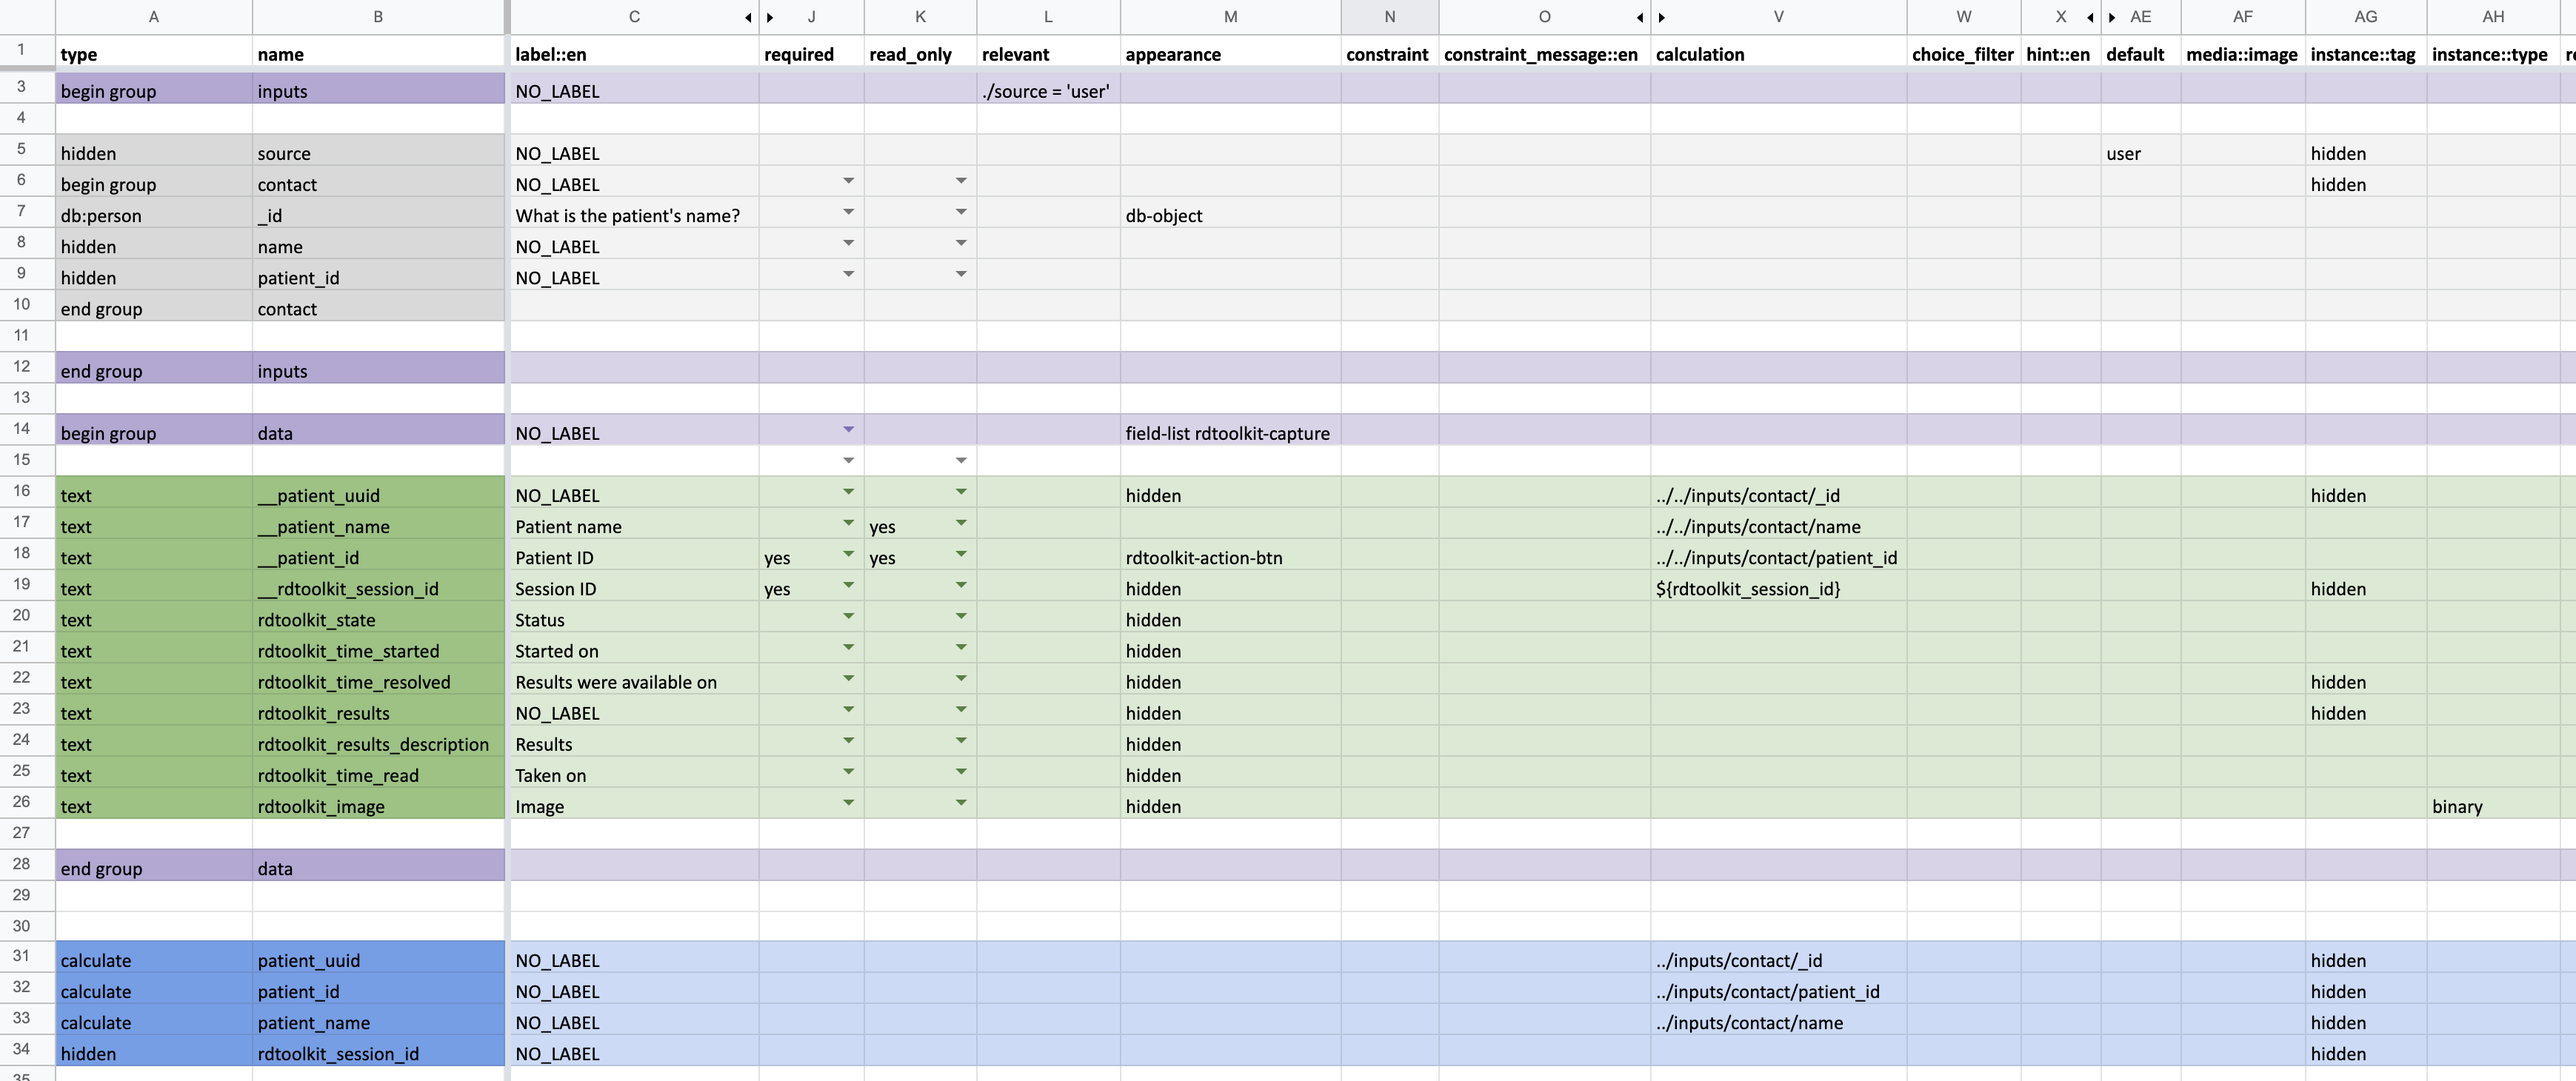
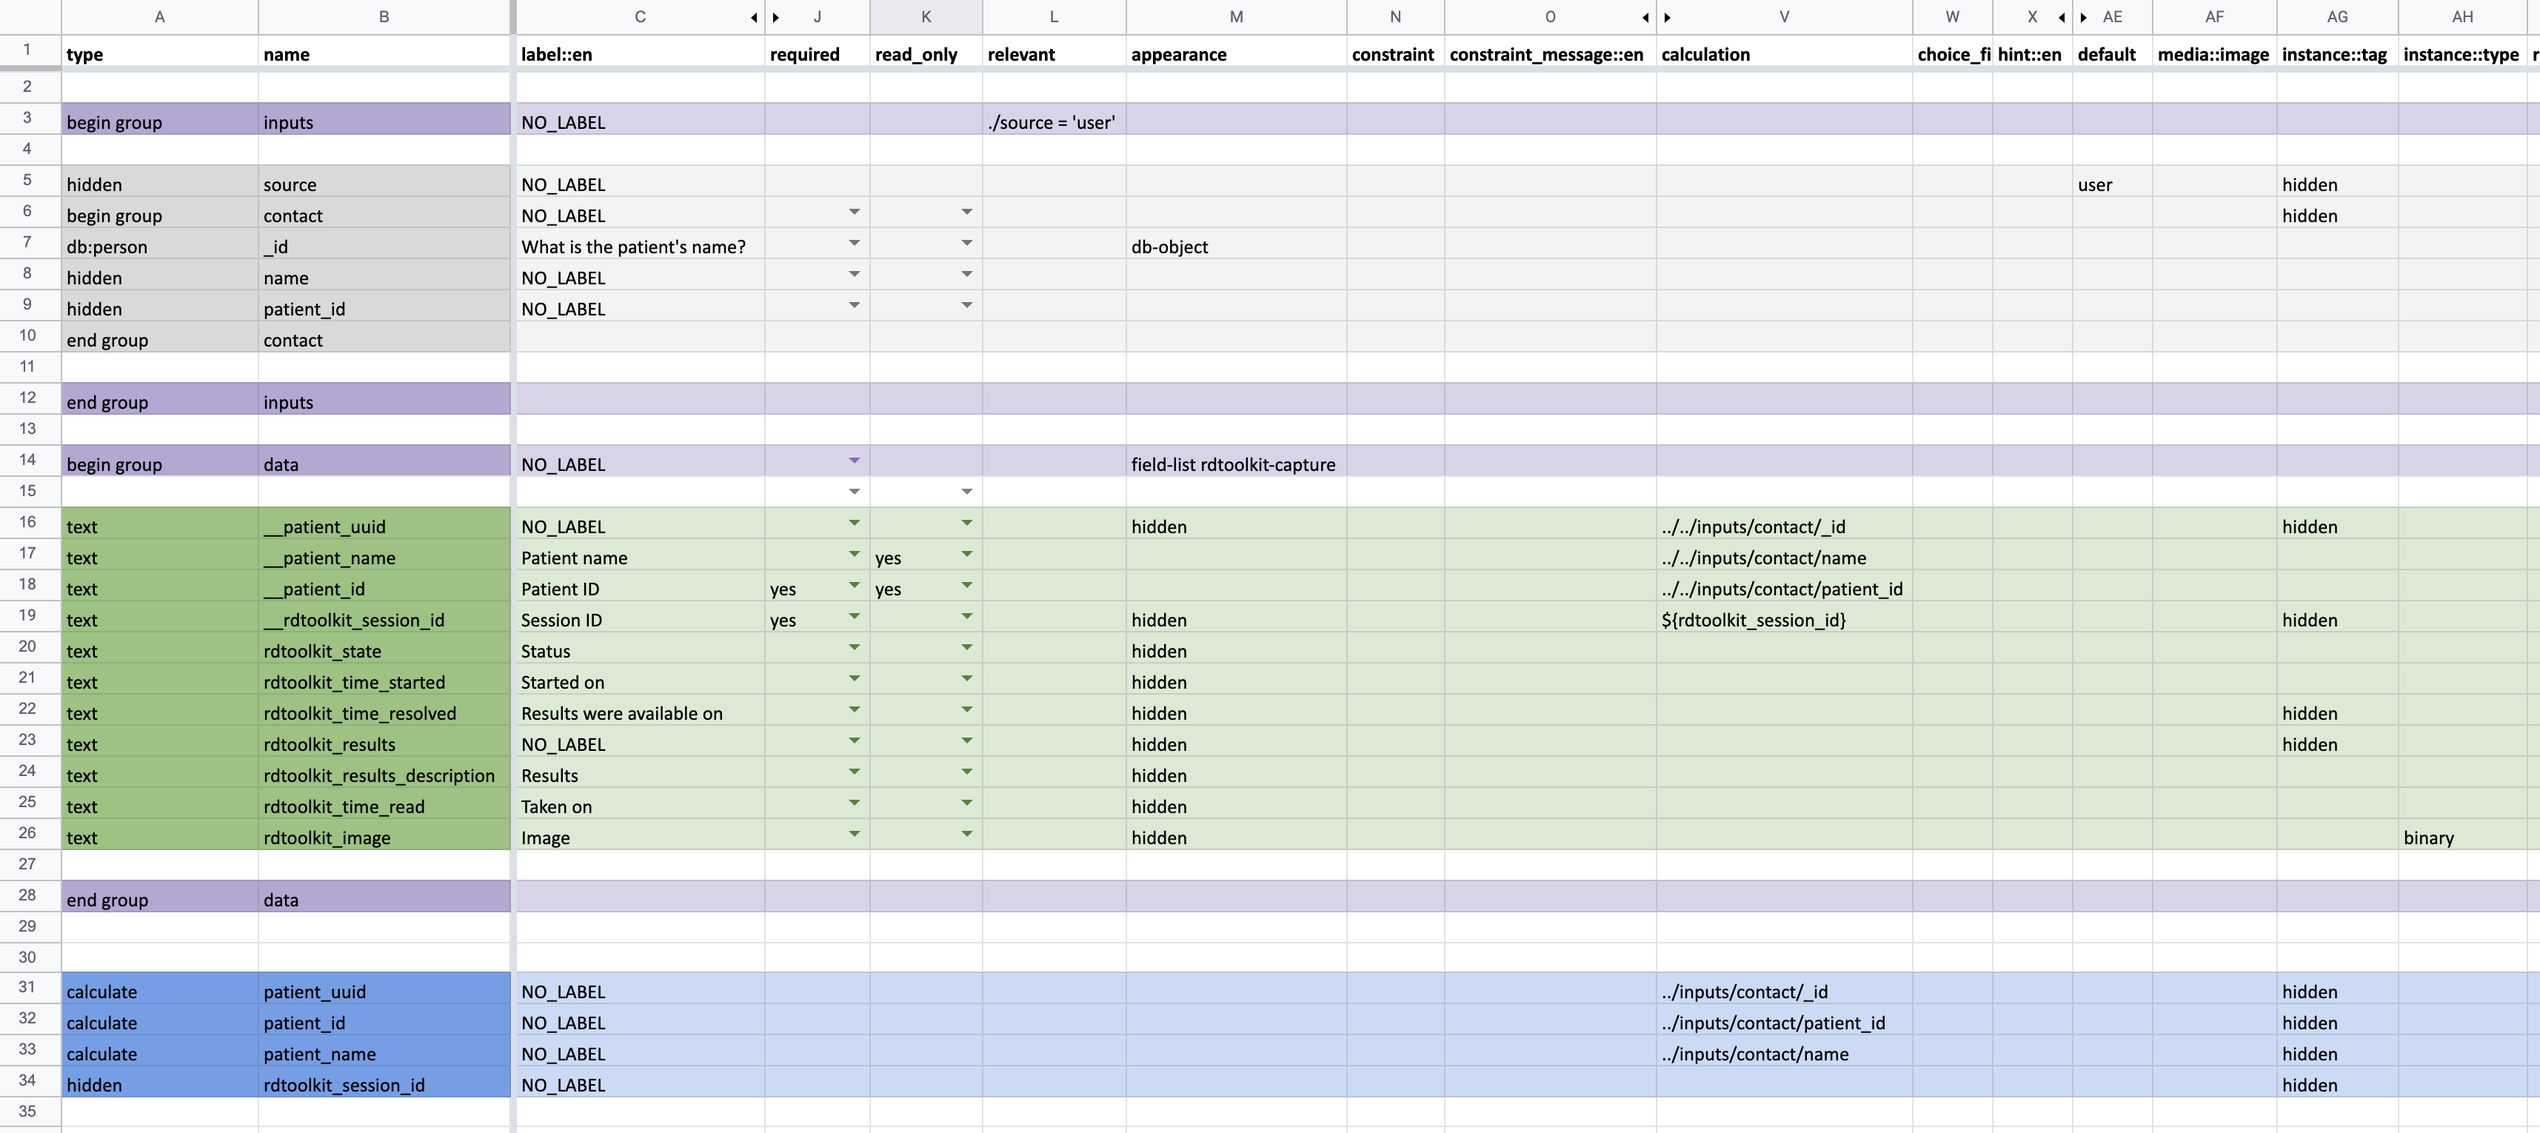
removed class for buttons in rdtoolkit

diff --git a/content/en/apps/guides/forms/rdtoolkit-integration.md b/content/en/apps/guides/forms/rdtoolkit-integration.md
@@ -17,9 +17,8 @@ The integration is only available in the CHT Android app and consists of two Enk
 It is required to create one form for provisioning RDT and one form for capturing RDT results, see [the documentation](https://docs.communityhealthtoolkit.org/apps/tutorials/app-forms/) for more details about app forms.
 
 ### Provisioning RDT form
-The following labels are required in the “appearance” tag:
-* `rdtoolkit-provision`: To attach the Enketo widget that connects with the RDToolkit app.
-* `rdtoolkit-action-btn`: To attach the action button that provisions RDT, this button will open the RDToolkit app.
+The following label is required in the `appearance` tag of `data` group:
+* `rdtoolkit-provision`: To attach the Enketo widget that connects with the RDToolkit app to provision RDT.
 
 This form has the following mandatory fields:
 * `patient_uuid` | Text
@@ -66,9 +65,8 @@ Optional fields:
 ![Provisioning RDT form](rdtoolkit-povision-form.png)
 
 ### Capturing RDT result form
-The following labels are required in the “appearance” tag:
-* `rdtoolkit-capture`: To attach the Enketo widget that connects with the RDToolkit app.
-* `rdtoolkit-action-btn`: To attach the action button that captures the RDT result, this button will open the RDToolkit.
+The following label is required in the `appearance` tag of `data` group:
+* `rdtoolkit-capture`: To attach the Enketo widget that connects with the RDToolkit app to capture RDT result.
 
 This form has the following mandatory fields:
 * `patient_uuid` | Text
